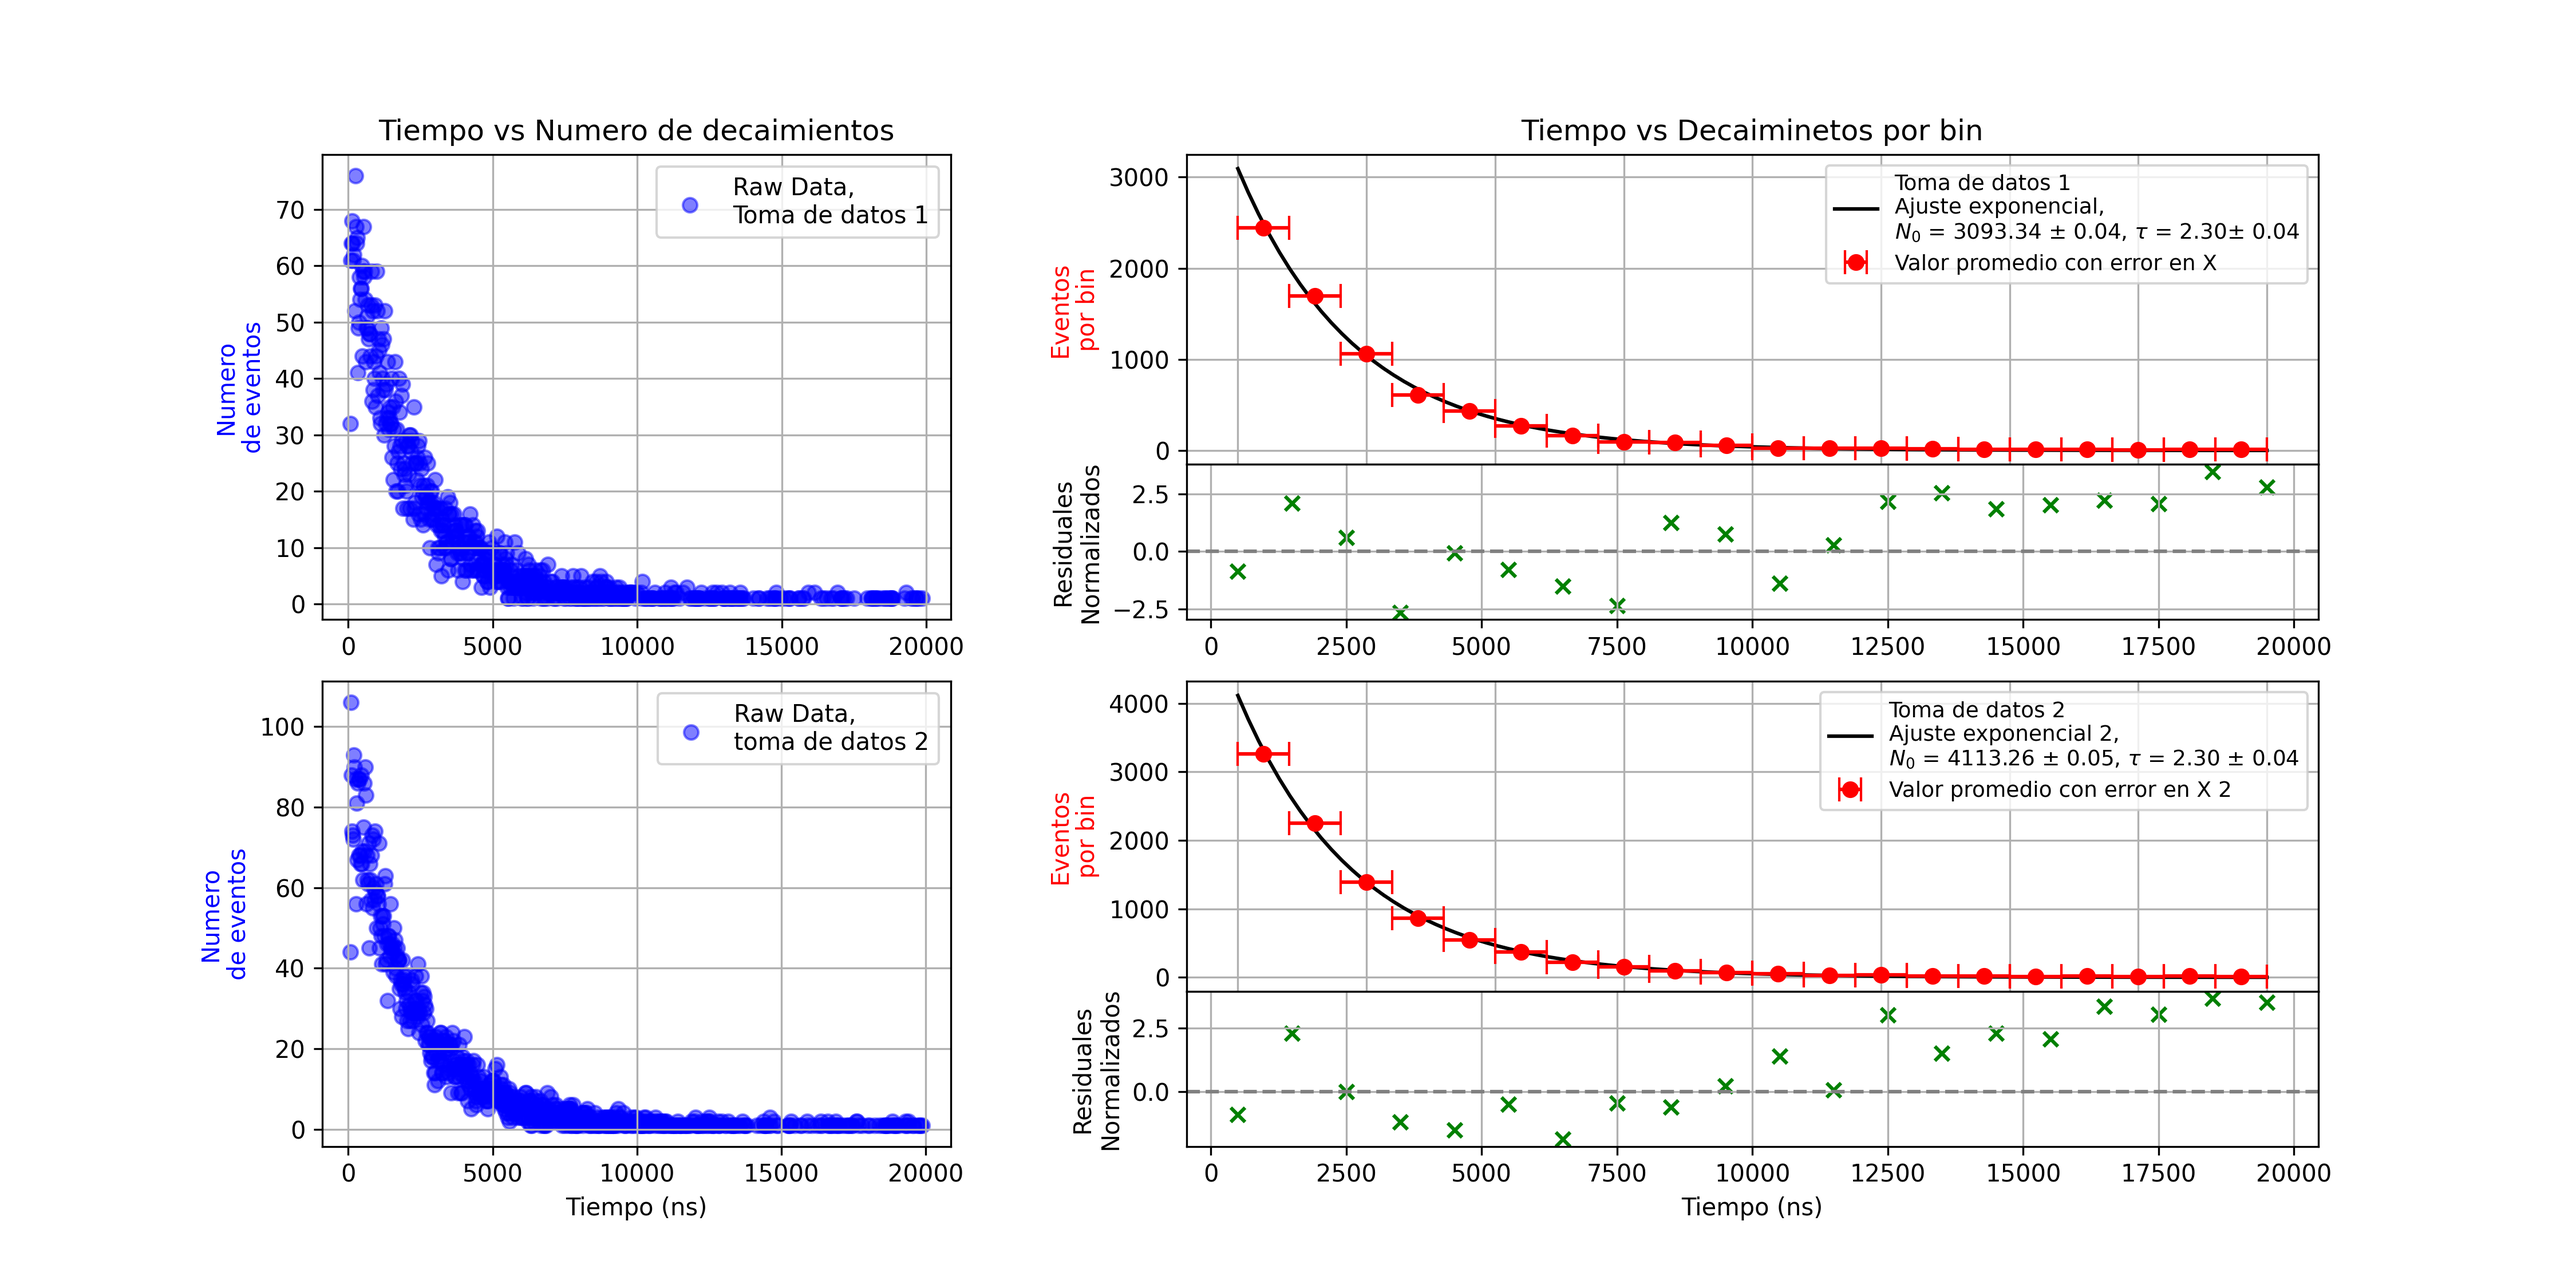
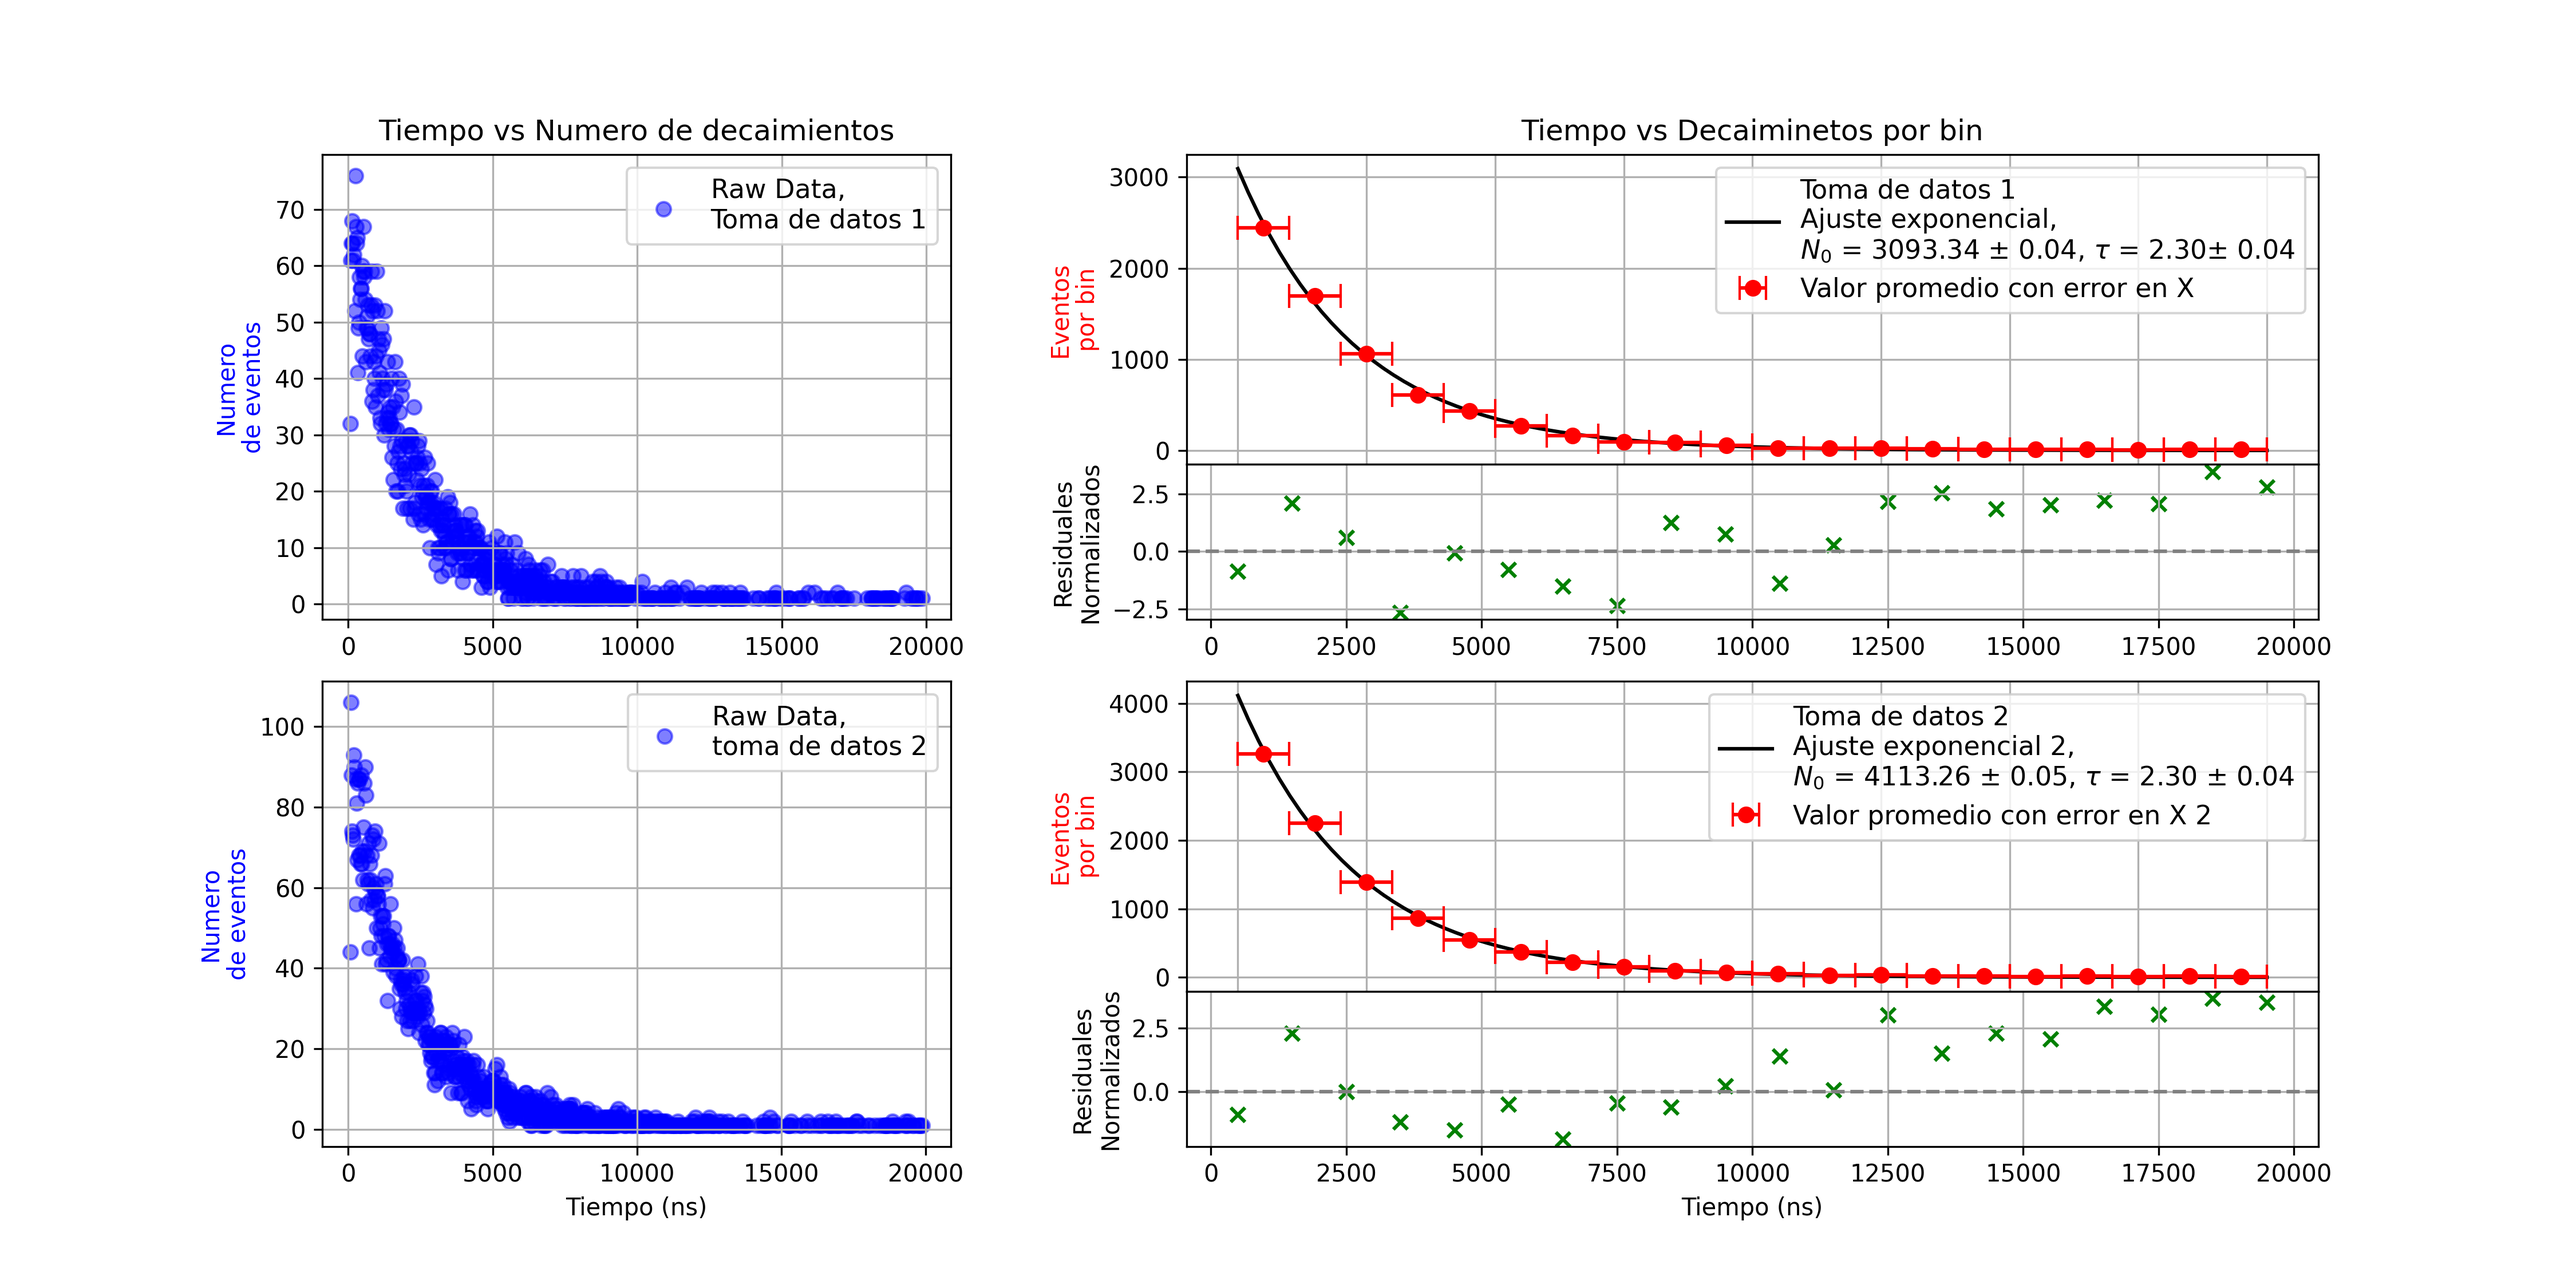
minor fixes

diff --git a/Fisica de muones/Grafica_Muones.py b/Fisica de muones/Grafica_Muones.py
@@ -77,7 +77,7 @@ ax1.set_title("Tiempo vs Numero de decaimientos")
 
 ax1.grid(True)
 
-ax1.legend(loc='upper right')
+ax1.legend(loc='upper right', fontsize=11)
 
 ax2.scatter(valores_unicos2, ocurrencias2,alpha=0.5,color='b', label='Raw Data,\ntoma de datos 2')
 ax2.set_ylabel("Numero\nde eventos", color='b')
@@ -85,7 +85,7 @@ ax2.set_xlabel("Tiempo (ns)")
 
 ax2.grid(True)
 
-ax2.legend(loc='upper right')
+ax2.legend(loc='upper right', fontsize=11)
 
 param_text = r'$N_{0}$' + f" = {param[0]:.2f} " + r'$\pm$' + f" {cov1[0]:.2f}, " + r'$\tau$' + f" = {param[1]/1000:.2f}" + r'$\pm$' + f" {cov1[1]:.2f}"
 ax3.plot(x_, y_, label=f"Toma de datos 1\nAjuste exponencial,\n{param_text}", color="black")
@@ -96,7 +96,7 @@ ax3.set_title("Tiempo vs Decaiminetos por bin")
 
 ax3.grid(True)
 
-ax3.legend(loc="upper right", fontsize=9)
+ax3.legend(loc="upper right", fontsize=11)
 
 ax4.scatter(y, residuales_1, color='g', marker='x')
 ax4.axhline(0, color='gray', linestyle='--')  
@@ -113,7 +113,7 @@ ax5.set_ylabel("Eventos\npor bin", color='r')
 
 ax5.grid(True)
 
-ax5.legend(loc="upper right", fontsize=9)
+ax5.legend(loc="upper right", fontsize=11)
 
 ax6.scatter(y, residuales_2, color='g', marker='x')
 ax6.axhline(0, color='gray', linestyle='--')  
